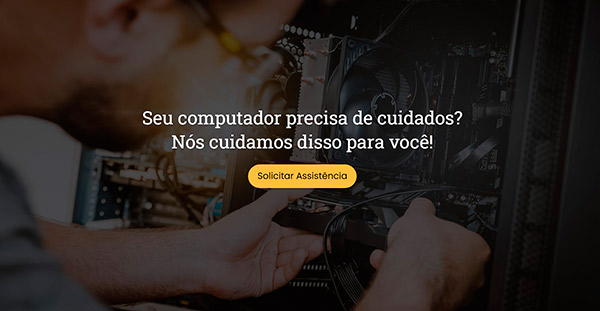
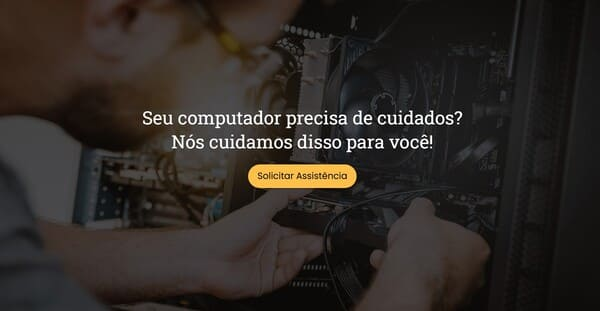
Otimização de Img

diff --git a/index.html b/index.html
@@ -87,7 +87,7 @@
             <div class="container_projetos">
                 <div class="projeto container-md">
                     <div class="row">
-                        <img src="./imgs/projetos/tech_care.jpg" alt="Imagem do projeto chamado TechCare" class="img_projeto col-xl-6 col-xxl-7">
+                        <img src="./imgs/projetos/tech_care_800.jpg" alt="Imagem do projeto chamado TechCare" class="img_projeto col-xl-6 col-xxl-7">
                         <div class="conteudo col-xl-5">
                             <h2>TechCare</h2>
                             <p>Uma <strong>landing page</strong> de uma empresa de manutenção de computadores, chamada TechCare. Este site possui um <strong>Tema Escuro e Claro</strong> e <strong>dois idiomas</strong>, <strong>Português Brasileiro e Inglês</strong>, ambos são definidos a partir das <strong>preferências do usuário</strong>, e também, podem ser alternados. O projeto foi realizado com HTML, CSS e Javascript, utilizando a prática <strong>Mobile First</strong> e <strong>versionamento Git</strong>.</p>

diff --git a/css/style.css b/css/style.css
@@ -217,7 +217,7 @@ section.introducao {
     padding-bottom: 70px;
     height: calc(100vh - 70px);
     height: calc(100vh - 70px);
-    background-image: url("../imgs/back/back_cell.png");
+    background-image: url("../imgs/back/back_cell.jpg");
     background-size: cover;
     background-repeat: no-repeat;
     background-position: center center;
